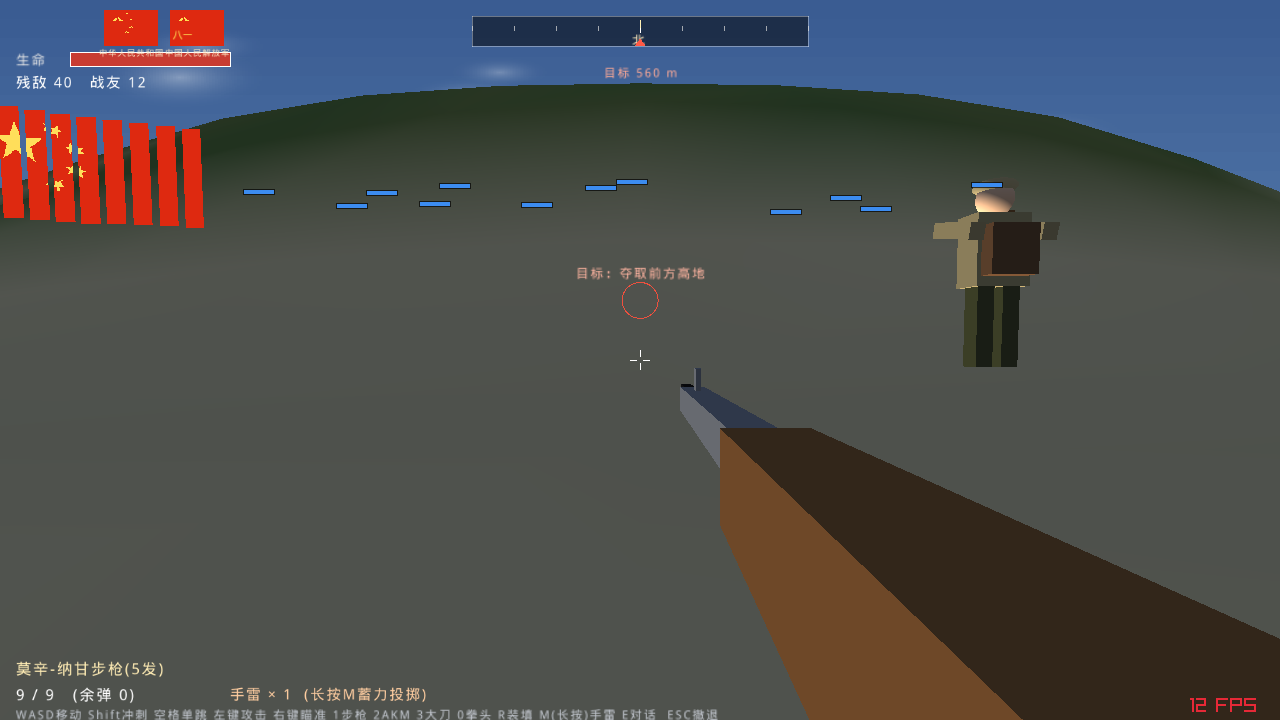
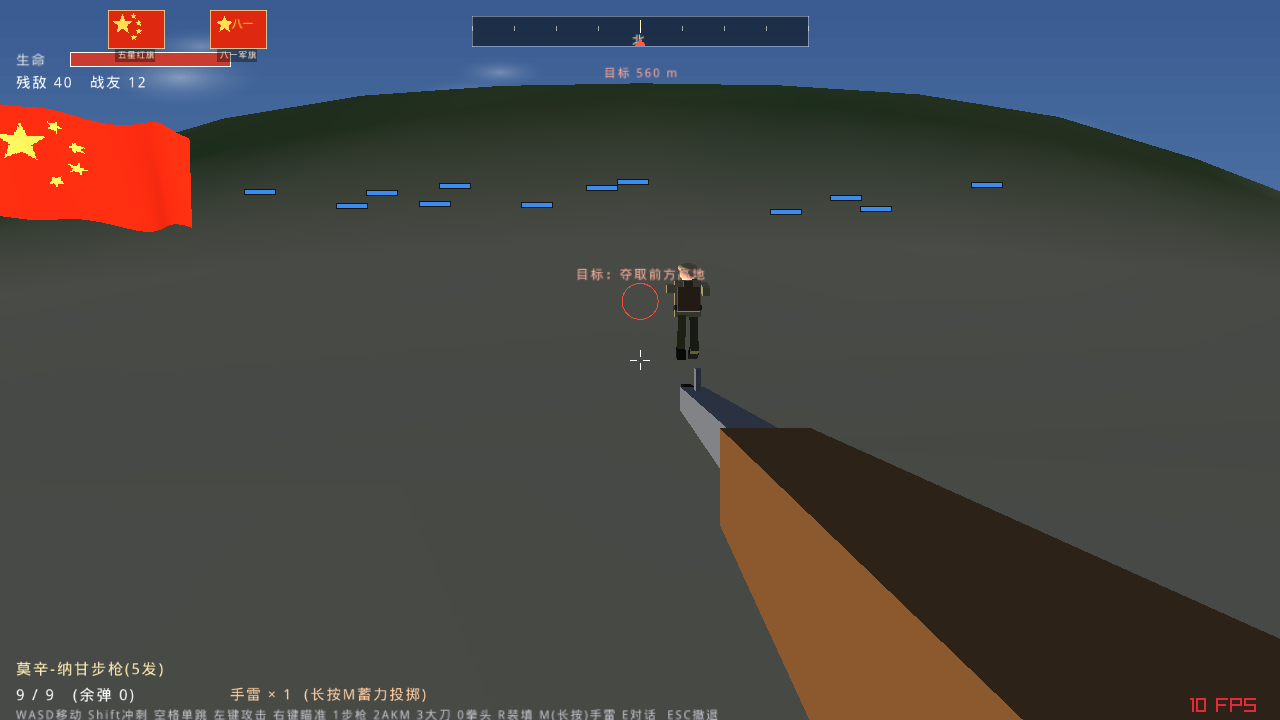
v1.8 release: 12 campaigns, tank/jet/mines, continuous flag, 15x scope, touch fixes

diff --git a/docs/index.html b/docs/index.html
@@ -53,7 +53,7 @@ code{background:#0a0e15;padding:2px 7px;border-radius:6px;color:#cfe0f5;font-siz
     <h1>长空 · 1951</h1>
     <div class="sub">J-20 SKIES OVER KOREA — 跨平台 3D 战争射击游戏<br>驾驶歼-20 搏击长空，或作为志愿军步兵冲锋夺旗。</div>
     <div class="badges">
-      <span class="tag">最新 v1.7：六场战役 · 触控重写 · 换旗仪式</span>
+      <span class="tag">最新 v1.8：十二大战役 · 坦克/敌机/地雷 · 连续国旗 · 15倍镜</span>
       <span class="tag">Windows EXE（x86_64）</span>
       <span class="tag">Android APK（arm64-v8a + armeabi-v7a）</span>
       <span class="tag">Linux 可编译</span>
@@ -69,17 +69,16 @@ code{background:#0a0e15;padding:2px 7px;border-radius:6px;color:#cfe0f5;font-siz
 <section>
   <div class="wrap">
     <h2>玩法</h2>
-    <p class="lead">空战对地支援、夺取制空权；陆战提供 <b>6 场独立战役</b>，与 AI 战友协同夺取高地，胜负与牺牲均有历史结语。</p>
+    <p class="lead">空战对地支援、夺取制空权；陆战提供 <b>12 场独立战役</b>，与 AI 战友协同夺取高地，胜负与牺牲均有历史结语。</p>
     <div class="grid">
-      <div class="card"><h3>六场陆战战役（v1.7 新增）</h3><p>② 山地攻坚(昼) · ③ 长津湖·冰雕连(雪夜) · ④ 上甘岭·坑道高地 · ⑤ 松骨峰·阻击战(黄昏) · ⑥ 汉江·夜渡 · ⑦ 三八线·阵地防御。每张地图噪声地貌、山势、雪/焦土配色与天光（夜/黄昏/硝烟昼）都不同。</p></div>
-      <div class="card"><h3>手机触控重写（v1.7）</h3><p>每根手指按<b>落点</b>固定为摇杆/按钮/视角，滑动不再串扰；误触不会猛转视角；暂停后“返回主菜单”不会误触下一项；所有按钮单击即响应，无需双击。</p></div>
-      <div class="card"><h3>人物与换旗（v1.7）</h3><p>跑步时四肢摆动、第一人称能看到自己迈腿；大刀/拳头有挥击动画。胜利时敌方军旗 90° 倒下，五星红旗沿旗杆升起、迎风飘扬。战场有持续火光、黑烟、弹坑与焦土。</p></div>
+      <div class="card"><h3>十二大战役（v1.8 新增）</h3><p>温井伏击 · 云山攻坚 · <b>长津湖·冰雕连(雪夜)</b> · 松骨峰(黄昏雪) · 上甘岭(焦土坑道) · 金城反击 · 汉江夜渡 · 三八线(硝烟) · 铁原阻击 · 横城(黄昏) · 平壤外围 · 黄草岭(雪山口)。每张地图噪声地貌、山势、雪/焦土配色与天光都不同。</p></div>
+      <div class="card"><h3>坦克 · 敌机 · 地雷（v1.8）</h3><p>战场上有可被击毁的敌坦克——集束手雷或炮弹打掉车组后可按 F（手机点“话”）<b>登车驾驶开炮</b>；敌机定时低空扫射并投弹；地面布有 16 颗地雷，踩踏或压上即爆。炮弹有震屏与范围误伤。</p></div>
+      <div class="card"><h3>真实射击（v1.8 强化）</h3><p>狙击镜改 <b>15 倍</b>，仅枪械可开镜、开镜时仍可拖动视角；子弹射线加密不再穿山；AI 选择最近的可见目标（玩家/战友/联机队友）点射多发；手雷长按蓄力、抛物线预览，可误伤自己与战友。</p></div>
+      <div class="card"><h3>连续国旗 · 光影（v1.8 修复）</h3><p>旗帜改为一整块连续细分网格并接入纹理光照，迎风飘扬不再断成条状；按夜战/黄昏/焦土/白昼四套天光照射，士兵脚下有接触阴影，全战线黑烟炮火、火光冲天。</p></div>
+      <div class="card"><h3>手机触控（v1.8 再修）</h3><p>每根手指按<b>落点</b>固定为摇杆/按钮/视角；暂停后“继续 / 返回主菜单”单击即响应；开火、开镜时同一根拇指可继续拖动视角；主菜单与联机大厅全面支持手指点选。</p></div>
       <div class="card"><h3>协同作战 · 同一战场（v1.6）</h3><p>主机点“开始战斗”后双方进入<b>同一战场</b>：能看到彼此的志愿军身体、同一批 40 名敌军与 12 名战友，一起冲锋开火夺旗。采用主机权威：命中、血量、阵亡、胜负以主机为准。已用两个真实游戏进程端到端验证。</p></div>
-      <div class="card"><h3>局域网联机大厅（v1.5）</h3><p>主菜单第⑤项。两台设备连同一 WiFi / 热点：一端“创建主机”，另一端“搜索并加入”即自动发现在线房间、分配战友编号、显示在线人数。手机↔电脑、手机↔手机、电脑↔电脑通用。</p></div>
       <div class="card"><h3>空战 · 歼-20</h3><p>追尾飞行、失速与返航；机炮、锁定导弹、投弹，迎击多波 F-86 与地面装甲纵队。</p></div>
-      <div class="card"><h3>陆战 · 志愿军队列</h3><p>第一人称冲锋，莫辛-纳甘步枪与 AKM，机瞄狙击镜、真实上跳后坐力，与战友冲锋夺旗。</p></div>
-      <div class="card"><h3>长津湖 · 冰雕连（v1.3 新增）</h3><p>独立夜战关卡：冷月雪原、深蓝寒夜光照，卧雪潜伏、号响冲锋，专属“冰血隘口 / 军魂永驻”结局。</p></div>
-      <div class="card"><h3>有限弹药 · 命中分区（v1.4）</h3><p>步枪共5发、AKM共100发，打光即空仓无法再补；狙击爆头一枪致命，腿/躯干约半血。3 大刀、0 拳头近战，每人1颗手雷长按 M 蓄力按抛物线投出。</p></div>
+      <div class="card"><h3>有限弹药 · 命中分区</h3><p>步枪共5发、AKM共100发，打光即空仓无法再补；狙击爆头一枪致命，腿/躯干约半血。3 大刀、0 拳头近战，每人1颗手雷长按 M 蓄力按抛物线投出。</p></div>
       <div class="card"><h3>红蓝血条 · 插旗冲锋（v1.4）</h3><p>敌人头顶红条、战友头顶蓝条；胜利时班长（牺牲则随机一名战友）冲上高地插五星红旗、吹冲锋号。营地升起国旗与八一军旗，跑步有脚步声，可靠近伤员听遗言。步兵按史实只做单跳跃进。</p></div>
       <div class="card"><h3>空战防撞山（v1.3）</h3><p>沿飞行轨迹逐段采样地形，高速不再隧穿山体；地面废弃战车也成为实体障碍。</p></div>
       <div class="card"><h3>程序化战场</h3><p>柏林噪声生成雪山、森林与海面；昼夜两套光照、距离雾、火焰爆炸曳光粒子与程序化音效。</p></div>
